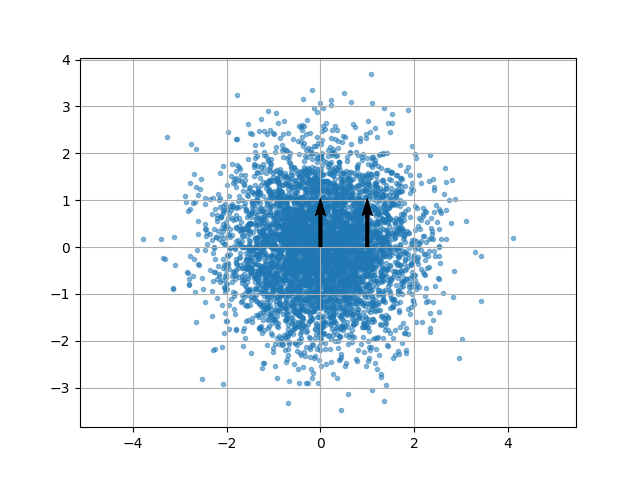
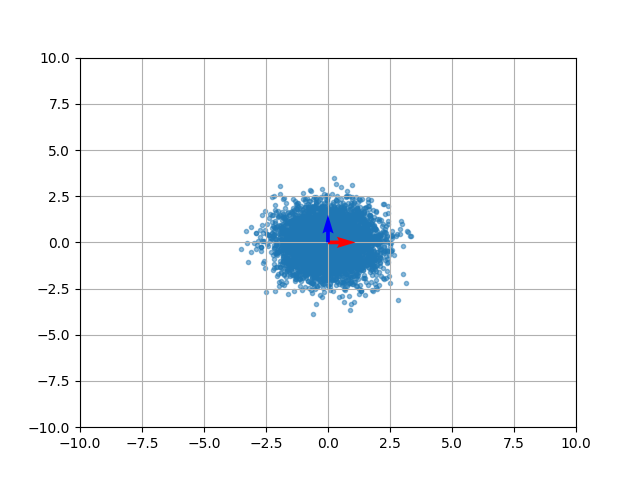
Homework 2 stuff

diff --git a/Homework_2/Gaussian_Generation.py b/Homework_2/Gaussian_Generation.py
@@ -35,6 +35,8 @@ def main():
     eigenvectors_list = []
     eigenvalues_list = []
 
+    # Colors list
+    colors_list = ['r','b','y','g','o']
 
     # Generate guassians for allcovariance matrixes
     for i in range(len(cov_list)):
@@ -49,13 +51,16 @@ def main():
         eigenvectors_list.append(eigenvectors)
         eigenvalues_list.append(eigenvalues)
 
-        print(eigenvectors)
-        
+        print("Eigenvalues = ",eigenvalues)
         # Plot the eigenvectors
-        for x in eigenvalues:     
-            plt.quiver(mean, x, scale = 10, zorder = 10)
+        for j in range(len(eigenvectors)):
+            print(eigenvalues[j])     
+            plt.quiver(*mean, *(eigenvectors[:,j]*eigenvalues[j]), scale = 18, color = colors_list[j], zorder = 10)
         
-        plt.axis('equal')
+        
+        #plt.axis('equal')
+        plt.xlim(-10,10)
+        plt.ylim(-10,10)
         plt.grid()
         #plt.show()
         plotname = "Cov_" + str(i) + ".png"

diff --git a/Homework_2/Sklearn_QDA.py b/Homework_2/Sklearn_QDA.py
@@ -1,0 +1,23 @@
+from sklearn.discriminant_analysis import QuadraticDiscriminantAnalysis as QDA
+import numpy as np
+import pandas as pd
+
+def main():
+
+    # read in the data from the csv files
+    train = pd.read_csv("train.csv",comment = "#").to_numpy()
+    eval = pd.read_csv("eval.csv", comment = "#").to_numpy()
+    
+    train_coords = np.array(list(zip(train[:,1],train[:,2])))
+    eval_coords = np.array(list(zip(eval[:,1],eval[:,2])))
+
+    # Set and train the algorithm
+    algo = QDA()
+    print(algo.fit(train_coords,train[:,0]))
+
+    # Evaluate the algorithm
+    print("Evaluation accuracy rate: ",1-algo.score(eval_coords,eval[:,0]))
+    print("Training accuracy rate: ",1-algo.score(train_coords,train[:,0]))
+
+
+main()

diff --git a/Homework_2/Sklearn_GPC.py b/Homework_2/Sklearn_GPC.py
@@ -1,0 +1,23 @@
+from sklearn.gaussian_process import GuassianProcessClassifier as GPC
+import numpy as np
+import pandas as pd
+
+def main():
+
+    # read in the data from the csv files
+    train = pd.read_csv("train.csv",comment = "#").to_numpy()
+    eval = pd.read_csv("eval.csv", comment = "#").to_numpy()
+    
+    train_coords = np.array(list(zip(train[:,1],train[:,2])))
+    eval_coords = np.array(list(zip(eval[:,1],eval[:,2])))
+
+    # Set and train the algorithm
+    algo = QDA()
+    print(algo.fit(train_coords,train[:,0]))
+
+    # Evaluate the algorithm
+    print("Evaluation accuracy rate: ",1-algo.score(eval_coords,eval[:,0]))
+    print("Training accuracy rate: ",1-algo.score(train_coords,train[:,0]))
+
+
+main()
